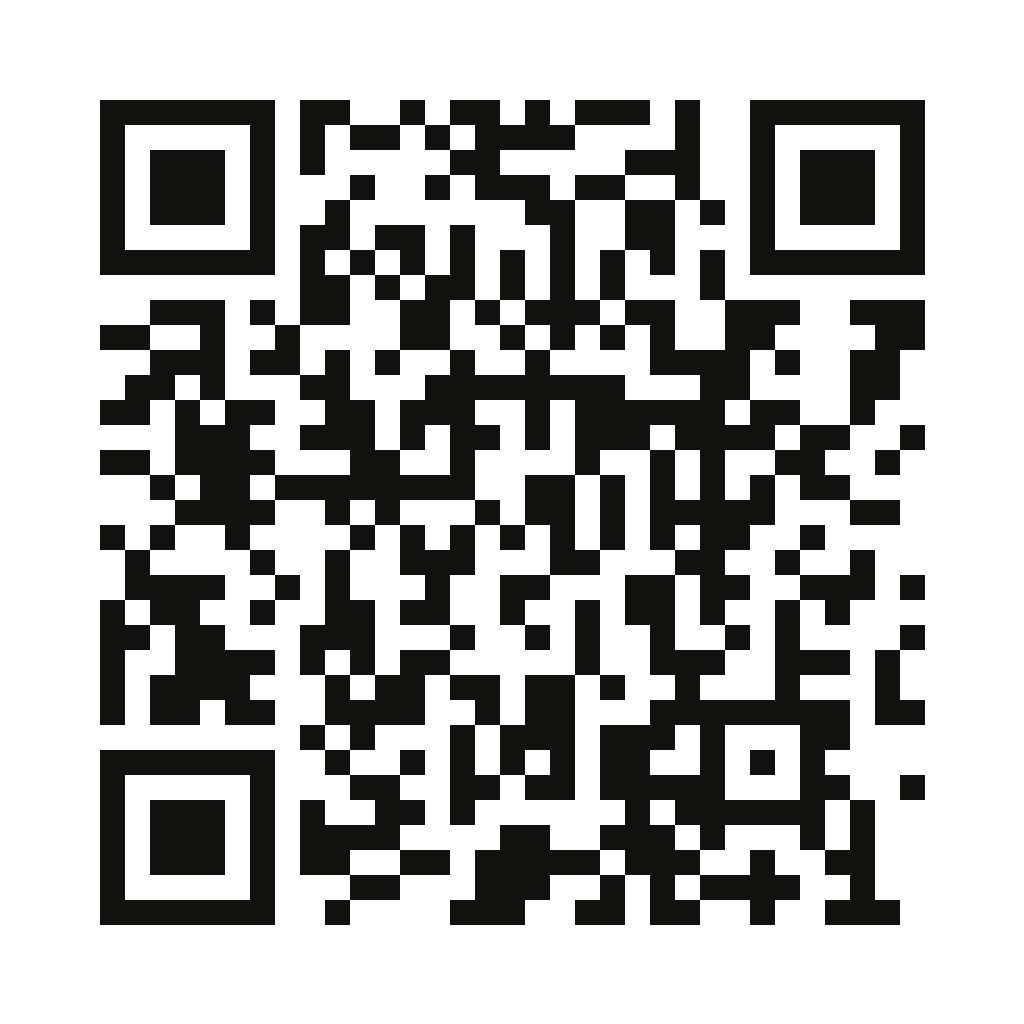
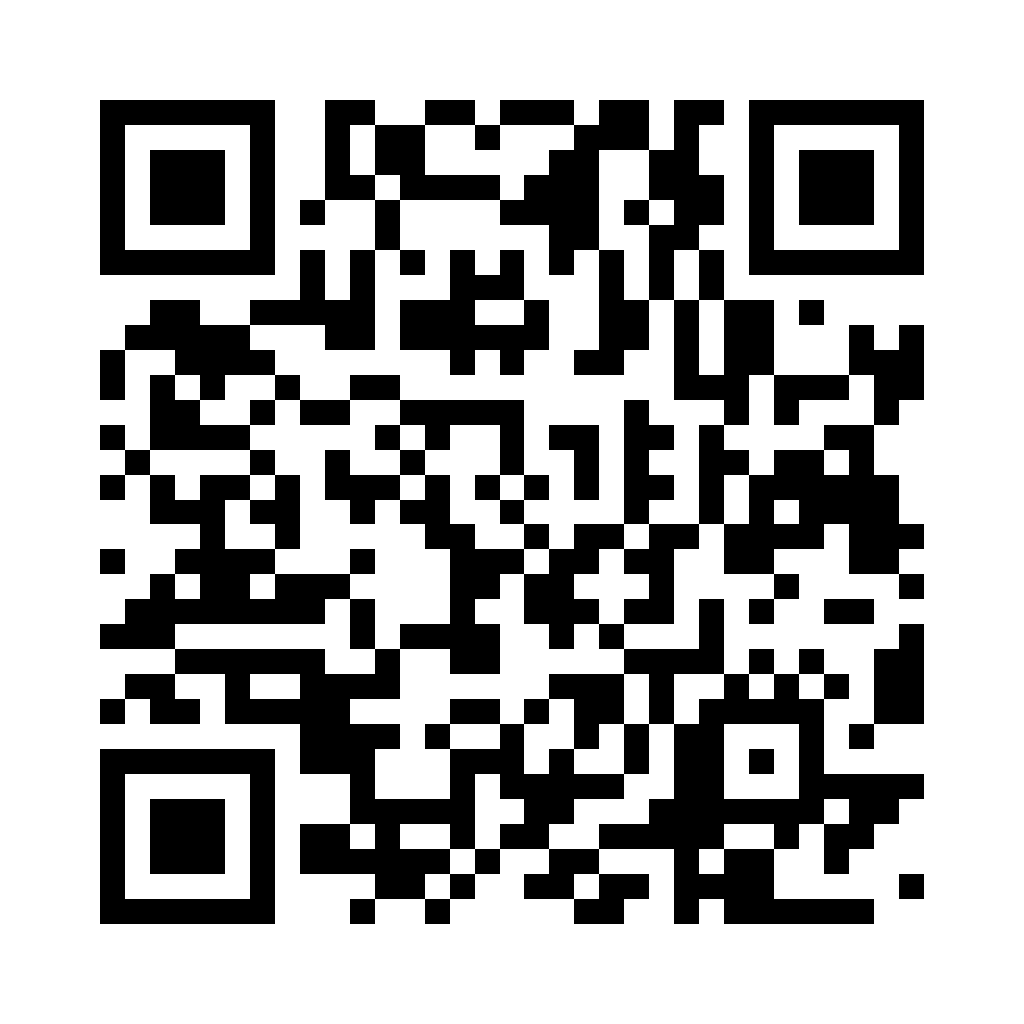
feat:更新分享海报二维码到生产域名

Changed region(s): [[0.0938, 0.0938, 0.9062, 0.9062], [0.875, 0.625, 0.9062, 0.6875], [0.6562, 0.0938, 0.7188, 0.125]]

diff --git a/app/showcase/ShowcaseDeck.tsx b/app/showcase/ShowcaseDeck.tsx
@@ -317,7 +317,7 @@ export default function ShowcaseDeck() {
                     height={1024}
                   />
                 </div>
-                <p className={styles.qrUrl}>http://124.221.235.9/findjoy</p>
+                <p className={styles.qrUrl}>https://findfire.club/findjoy</p>
               </div>
               <p className={styles.qrHint}>手机扫码 · 一局约 20 分钟</p>
             </aside>

diff --git a/DEPLOY.md b/DEPLOY.md
@@ -184,7 +184,7 @@ openssl s_client -connect findfire.club:443 -servername findfire.club </dev/null
 
 ### 6.7 二维码与分享链接
 
-`app/showcase/ShowcaseDeck.tsx` 的链接文案和 `public/findjoy-qr.png` 目前指向 `http://124.221.235.9/findjoy`。强制 HTTPS 后，用 IP 访问的 HTTP 会被 301 到 `https://<IP>`，触发证书不匹配警告；建议把二维码和文案改成 `https://findfire.club/findjoy`。
+`app/showcase/ShowcaseDeck.tsx` 的链接文案和 `public/findjoy-qr.png` 已改为 `https://findfire.club/findjoy`，分享海报也复用同一张二维码。不要再用 IP 地址生成二维码，否则 HTTPS 证书不匹配，手机扫码会先出现安全警告。
 
 ## 发布目录、预检与回滚
 
